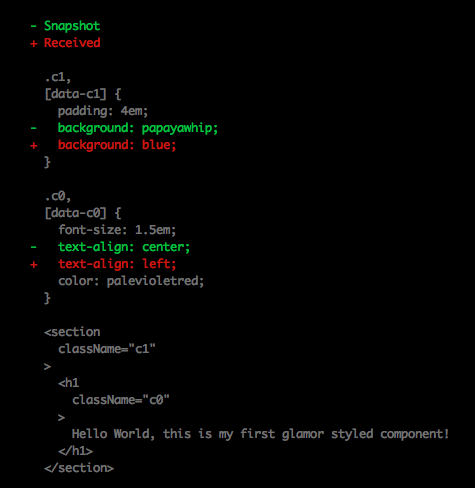
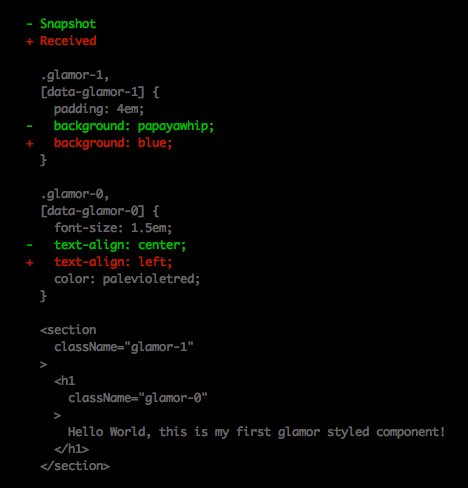
style(serializer): change classname replacer prefix to glamor-
Changes the classname prefix from c* to glamor-* so the effect is clearer for those unfamiliar with
the package

diff --git a/src/replace-class-names.test.js b/src/replace-class-names.test.js
@@ -18,7 +18,7 @@ test('Replaces a single class', () => {
       </h1>
   `
 
-  expect(replaceClassNames(selectors, styles, code)).toMatch(/(c0)/)
+  expect(replaceClassNames(selectors, styles, code)).toMatch(/(glamor-0)/)
   expect(replaceClassNames(selectors, styles, code)).not.toMatch(/(css-12345)/)
 })
 
@@ -51,6 +51,6 @@ test('Replaces multiple classes', () => {
       </section>
   `
 
-  expect(replaceClassNames(selectors, styles, code)).toMatch(/(c0)/)
-  expect(replaceClassNames(selectors, styles, code)).toMatch(/(c1)/)
+  expect(replaceClassNames(selectors, styles, code)).toMatch(/(glamor-0)/)
+  expect(replaceClassNames(selectors, styles, code)).toMatch(/(glamor-1)/)
 })

diff --git a/src/replace-class-names.js b/src/replace-class-names.js
@@ -5,7 +5,7 @@ const replaceClassNames = (selectors, styles, code) => {
       className.replace('.', '').replace(/[-[\]{}()*+?.,\\^$|#\s]/g, '\\$&'),
       'g',
     )
-    return acc.replace(escapedRegex, `c${index++}`)
+    return acc.replace(escapedRegex, `glamor-${index++}`)
   }, `${styles}\n\n${code}`)
 }
 
